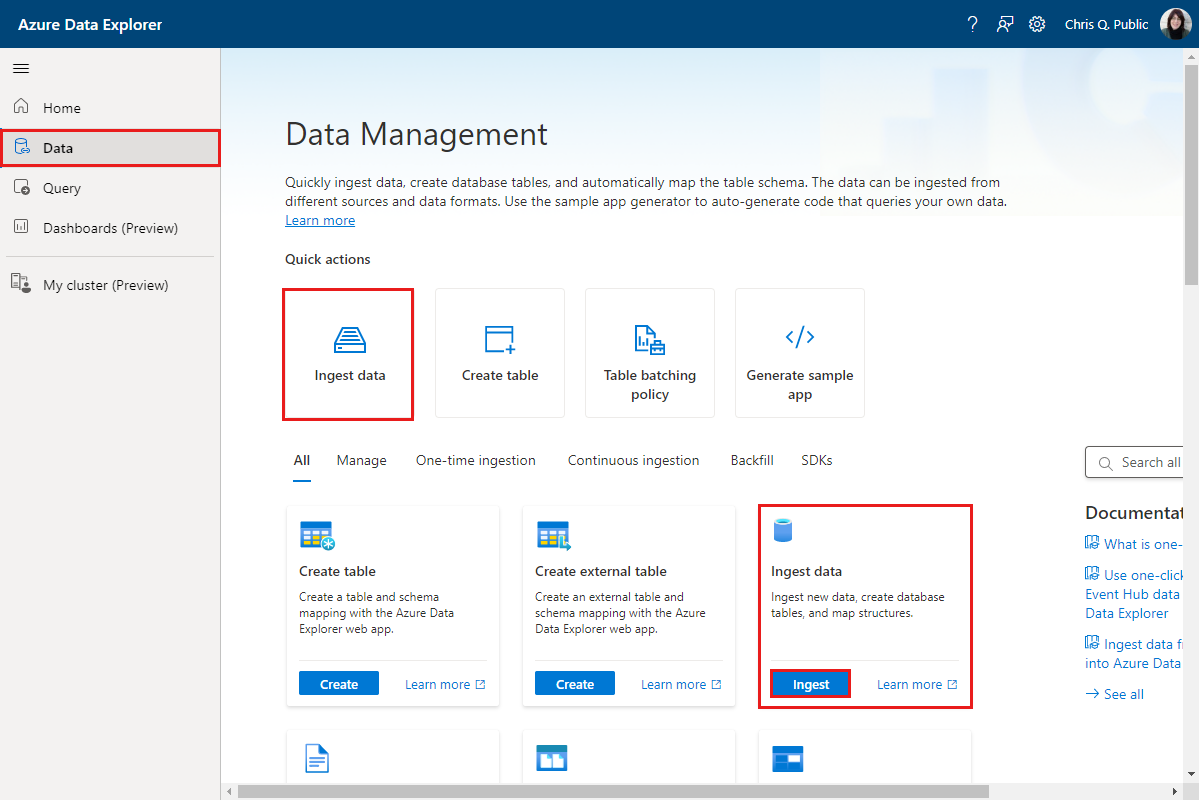
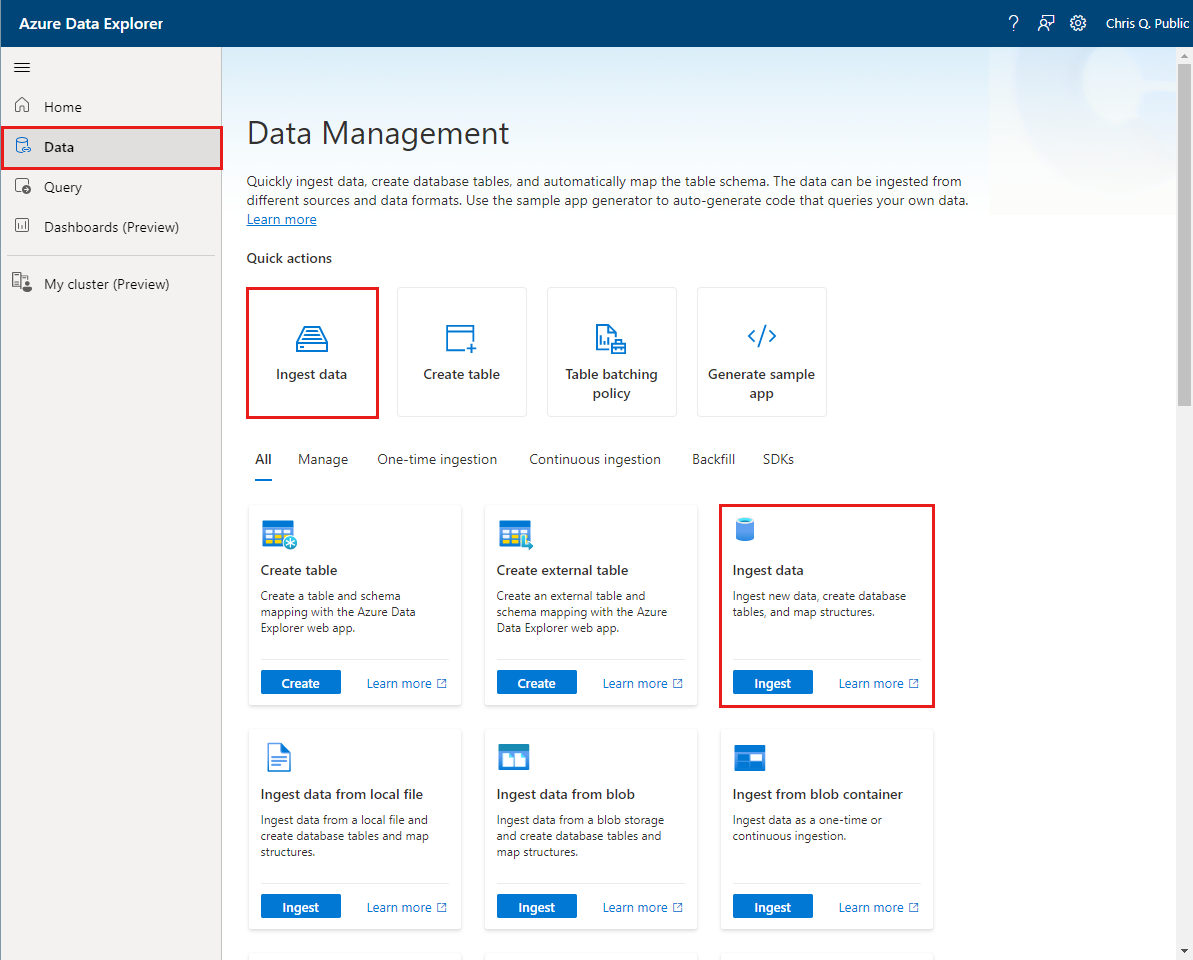
cluster ingest shot update and corrections

diff --git a/data-explorer/ingest-data-one-click.md b/data-explorer/ingest-data-one-click.md
@@ -44,9 +44,9 @@ The ingestion wizard guides you through the ingestion process.
 
       :::image type="content" source="media/ingest-data-one-click/ingest-new-data-database-menu.png" alt-text="Screenshot of selection of the ingestion wizard in the Azure Data Explorer web U I.":::
 
-* To access the ingestion wizard from the **Welcome to Azure Data Explorer** home screen in your cluster, complete the first two steps ([cluster creation and database creation](#prerequisites)) and then select **Ingest new data**.
+* To access the ingestion wizard from the **Azure Data Explorer** home screen in your cluster, complete the first two steps ([cluster creation and database creation](#prerequisites)) and then select **Ingest**.
 
-    :::image type="content" source="media/ingest-data-one-click/welcome-ingestion.png" alt-text="Ingest new data from welcome to Azure Data Explorer.":::
+    :::image type="content" source="media/ingest-data-one-click/cluster-ingestion.png" alt-text="Ingest new data from welcome to Azure Data Explorer.":::
 
 * To access the wizard from the Azure portal, select **Query** from the left menu, right-click on the **database** or **table**, and select **Ingest new data**.
 
